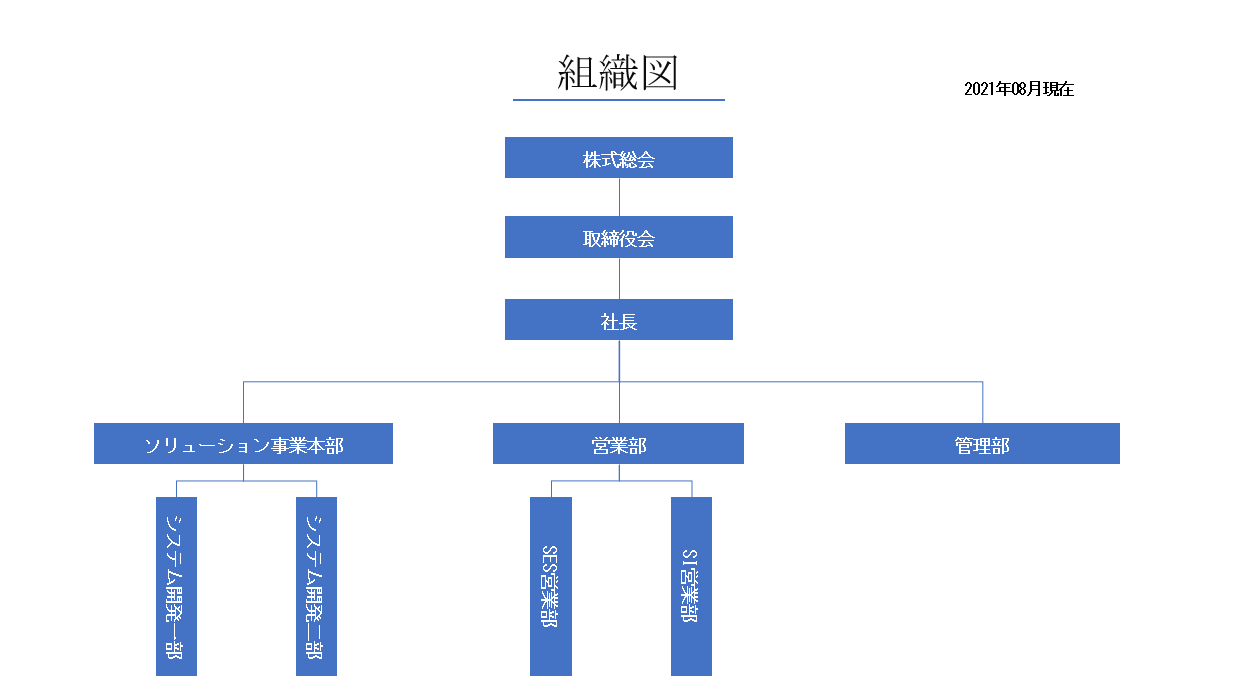
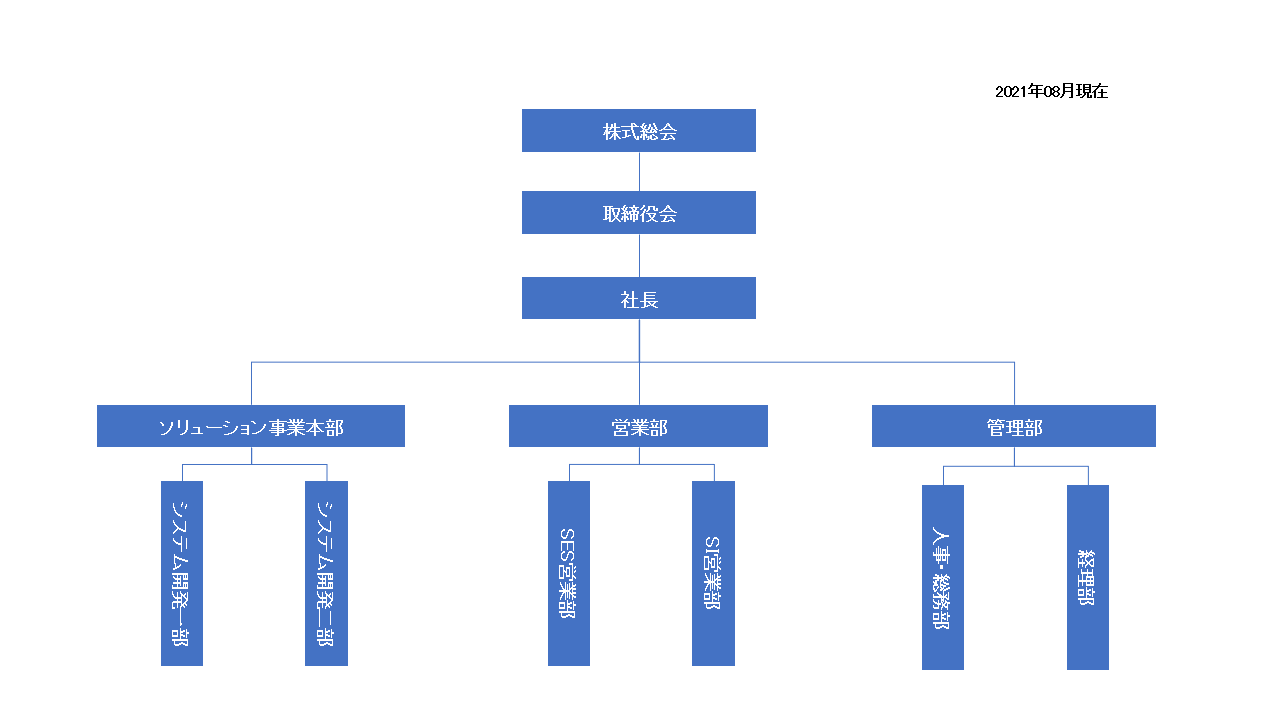
UP

diff --git a/company.html b/company.html
@@ -90,9 +90,17 @@
         </div>
         <div>
             <div class="col-lg-12">
-                <h2 class="business_description">組織図</h2>
+                <h2 class="business_description">日本・組織図</h2>
                 <div>
                     <img class="img-rounded img-responsive img-center" src="images/companyOrganization.png" alt="" width="" height="">
+                </div>
+            </div>
+        </div>
+        <div>
+            <div class="col-lg-12">
+                <h2 class="business_description">中国・組織図</h2>
+                <div>
+                    <img class="img-rounded img-responsive img-center" src="images/companyOrganization_china.png" alt="" width="" height="">
                 </div>
             </div>
         </div>
